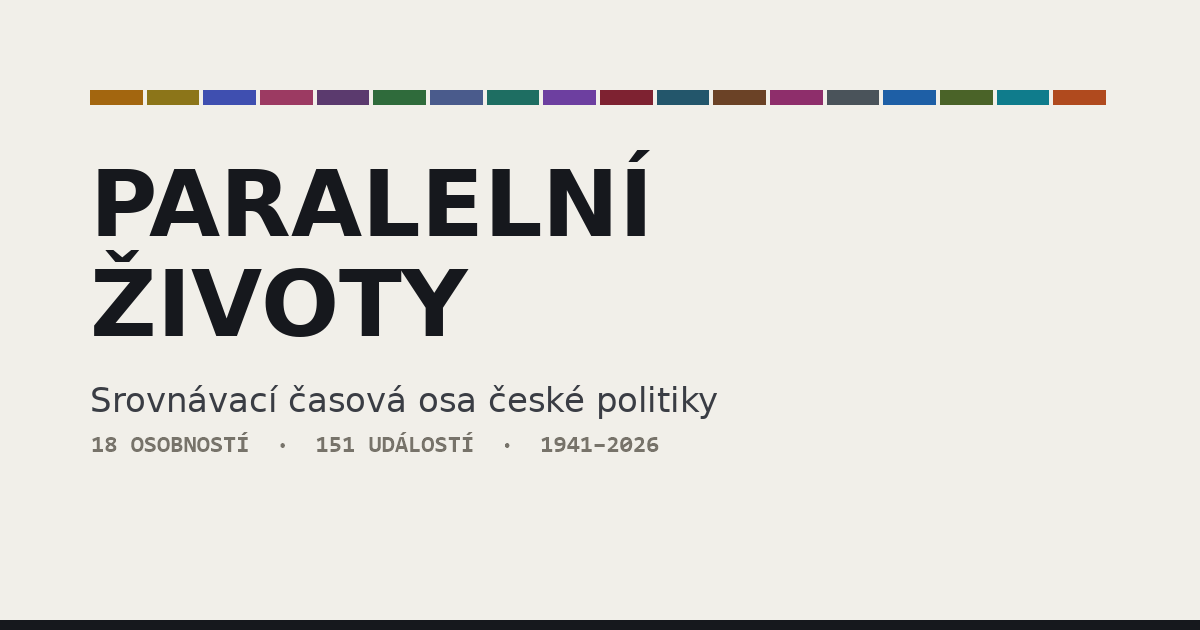
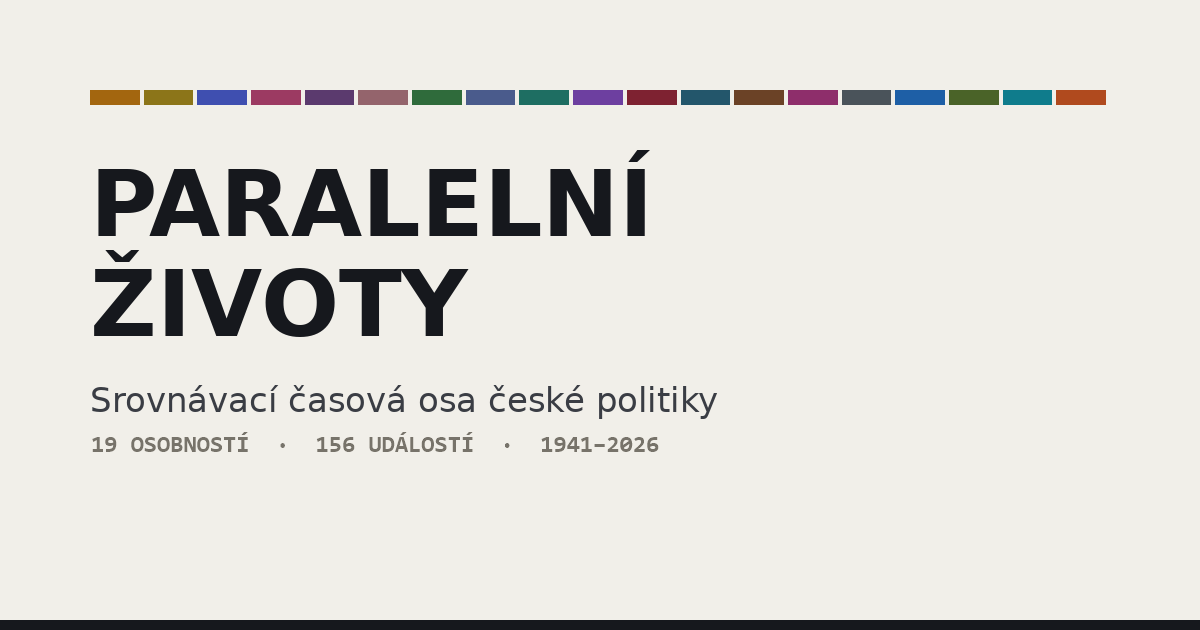
Add Karel Havlíček to the timeline, corrected by an external fact-check
Karel Havlíček joins as the 19th figure, placed alphabetically between
Fiala and Klaus: profile, the five comparison themes, five events with
articles, and a place in the cast of the December 2025 government event.
Counts, metadata, JSON-LD, README and og-image move to 19 figures and
156 events; his colour #94646C was chosen to stay within the palette's
range while being ΔE 26 from the nearest existing colour.

An external fact-check of the new articles was verified against primary
sources and applied. It adds his Bioinova supervisory-board seat
(2011–2016) and Syková's denial, drops an unsupported "final conviction"
in the Technistone case, corrects the ElCom years, his time chairing the
business association (2010–2019) and the habilitation date, fixes "the
whole pandemic", makes the Rosatom chronology precise, and describes
the ČEZ plan as the programme does (full control of production, bought
out by ČEZ itself) including the June 2026 shareholder vote. Balance is
added on his ministries (COVID–Nájemné, the D4 PPP contract). The shared
event card no longer claims the runoff rivals govern together "for the
first time". The revision log records the scoped check.

diff --git a/index.html b/index.html
@@ -4,9 +4,9 @@
 <meta charset="UTF-8">
 <meta name="viewport" content="width=device-width, initial-scale=1.0">
 <title>Paralelní životy — srovnávací časová osa české politiky</title>
-<meta name="description" content="Interaktivní srovnání životních drah osmnácti osobností české politiky. Vyberte jedno nebo více jmen, porovnejte jejich dráhy rok po roce a otevřete si ke každé ze 151 událostí podrobný článek s fakty i argumenty všech stran.">
+<meta name="description" content="Interaktivní srovnání životních drah devatenácti osobností české politiky. Vyberte jedno nebo více jmen, porovnejte jejich dráhy rok po roce a otevřete si ke každé ze 156 událostí podrobný článek s fakty i argumenty všech stran.">
 <meta name="robots" content="index, follow, max-image-preview:large, max-snippet:-1">
-<meta name="keywords" content="Andrej Babiš, Tünde Bartha, Ivan Bartoš, Eva Decroix, Petr Fiala, Václav Klaus, Oto Klempíř, Petr Macinka, Taťána Malá, Tomio Okamura, Petr Pavel, Jindřich Rajchl, Vít Rakušan, Karel Řehka, Alena Schillerová, Filip Turek, Natálie Vachatová, Miloš Zeman">
+<meta name="keywords" content="Andrej Babiš, Tünde Bartha, Ivan Bartoš, Eva Decroix, Petr Fiala, Karel Havlíček, Václav Klaus, Oto Klempíř, Petr Macinka, Taťána Malá, Tomio Okamura, Petr Pavel, Jindřich Rajchl, Vít Rakušan, Karel Řehka, Alena Schillerová, Filip Turek, Natálie Vachatová, Miloš Zeman">
 <link rel="canonical" href="https://jaktocist.cz/">
 <meta name="theme-color" content="#F1EFE9">
 <meta name="color-scheme" content="light">
@@ -16,7 +16,7 @@
 <meta property="og:locale" content="cs_CZ">
 <meta property="og:url" content="https://jaktocist.cz/">
 <meta property="og:title" content="Paralelní životy — srovnávací časová osa české politiky">
-<meta property="og:description" content="Interaktivní srovnání životních drah osmnácti osobností české politiky. Vyberte jedno nebo více jmen, porovnejte jejich dráhy rok po roce a otevřete si ke každé ze 151 událostí podrobný článek s fakty i argumenty všech stran.">
+<meta property="og:description" content="Interaktivní srovnání životních drah devatenácti osobností české politiky. Vyberte jedno nebo více jmen, porovnejte jejich dráhy rok po roce a otevřete si ke každé ze 156 událostí podrobný článek s fakty i argumenty všech stran.">
 <meta property="og:image" content="https://jaktocist.cz/og-image.png">
 <meta property="og:image:width" content="1200">
 <meta property="og:image:height" content="630">
@@ -24,7 +24,7 @@
 
 <meta name="twitter:card" content="summary_large_image">
 <meta name="twitter:title" content="Paralelní životy — srovnávací časová osa české politiky">
-<meta name="twitter:description" content="Interaktivní srovnání životních drah osmnácti osobností české politiky. Vyberte jedno nebo více jmen, porovnejte jejich dráhy rok po roce a otevřete si ke každé ze 151 událostí podrobný článek s fakty i argumenty všech stran.">
+<meta name="twitter:description" content="Interaktivní srovnání životních drah devatenácti osobností české politiky. Vyberte jedno nebo více jmen, porovnejte jejich dráhy rok po roce a otevřete si ke každé ze 156 událostí podrobný článek s fakty i argumenty všech stran.">
 <meta name="twitter:image" content="https://jaktocist.cz/og-image.png">
 
 <link rel="icon" href="favicon.svg" type="image/svg+xml">
@@ -39,7 +39,7 @@
    "@id": "https://jaktocist.cz/#website",
    "url": "https://jaktocist.cz/",
    "name": "Paralelní životy",
-   "description": "Interaktivní srovnání životních drah osmnácti osobností české politiky. Vyberte jedno nebo více jmen, porovnejte jejich dráhy rok po roce a otevřete si ke každé ze 151 událostí podrobný článek s fakty i argumenty všech stran.",
+   "description": "Interaktivní srovnání životních drah devatenácti osobností české politiky. Vyberte jedno nebo více jmen, porovnejte jejich dráhy rok po roce a otevřete si ke každé ze 156 událostí podrobný článek s fakty i argumenty všech stran.",
    "inLanguage": "cs-CZ"
   },
   {
@@ -50,7 +50,7 @@
    "isPartOf": {
     "@id": "https://jaktocist.cz/#website"
    },
-   "description": "Interaktivní srovnání životních drah osmnácti osobností české politiky. Vyberte jedno nebo více jmen, porovnejte jejich dráhy rok po roce a otevřete si ke každé ze 151 událostí podrobný článek s fakty i argumenty všech stran.",
+   "description": "Interaktivní srovnání životních drah devatenácti osobností české politiky. Vyberte jedno nebo více jmen, porovnejte jejich dráhy rok po roce a otevřete si ke každé ze 156 událostí podrobný článek s fakty i argumenty všech stran.",
    "inLanguage": "cs-CZ",
    "primaryImageOfPage": {
     "@id": "https://jaktocist.cz/#image"
@@ -75,6 +75,10 @@
     {
      "@type": "Person",
      "name": "Petr Fiala"
+    },
+    {
+     "@type": "Person",
+     "name": "Karel Havlíček"
     },
     {
      "@type": "Person",
@@ -205,6 +209,7 @@
     --vachatova:#0F7C8C;
     --rakusan:#8E2E6B;
     --bartos:#3F4FB0;
+    --havlicek:#94646C;
     --shared-grad:linear-gradient(90deg,var(--pavel),var(--babis));
     --maxw:1060px;
   }
@@ -672,6 +677,7 @@
   .tag.t-vachatova{color:var(--vachatova)}
   .tag.t-rakusan{color:var(--rakusan)}
   .tag.t-bartos{color:var(--bartos)}
+  .tag.t-havlicek{color:var(--havlicek)}
   .tag.t-shared{
     background:var(--shared-grad);
     -webkit-background-clip:text;background-clip:text;
@@ -788,7 +794,7 @@
 
 <section class="archive" id="archiv">
   <div class="wrap">
-    <h2>Textová verze — všech 151 článků</h2>
+    <h2>Textová verze — všech 156 článků</h2>
     <p class="arch-intro">Kompletní obsah osy v souvislém textu: rozbalte osobnost a přečtěte si její články bez klikání. Tato verze funguje i bez zapnutého JavaScriptu.</p>
     <details class="arch-person" style="--pc:#A3660F">
       <summary><i></i>Andrej Babiš <span class="cnt">15</span></summary>
@@ -1156,6 +1162,55 @@
   <p>Předání moci proběhlo korektně a bez průtahů – v prosinci 2025 Fiala předal úřad Babišovi, tedy muži, od něhož ho před čtyřmi lety převzal. Na kongresu ODS v lednu 2026 podpořil jako nástupce Martina Kupku, který byl zvolen; sám zůstal řadovým poslancem, chce se věnovat studentům a projektu přivádějícímu mladé lidi do politiky. Kandidaturu na prezidenta v roce 2028 vyloučil – Pavel podle něj úřad zvládá dobře.</p>
   <h5>Jak to číst</h5>
   <p>V české politice vzácný úkaz: lídr, který po porážce odešel sám, rychle a s poctami – expremiér Topolánek ho označil za prvního šéfa ODS, kterému se to povedlo. Otevřená zůstává otázka odkazu: zachránce demokratické pravice a premiér nejtěžších let, nebo lídr, který nedokázal mluvit s těmi, na něž krize dopadly nejtvrději? Nejspíš obojí zároveň.</p>
+</article>
+    </details>
+    <details class="arch-person" style="--pc:#94646C">
+      <summary><i></i>Karel Havlíček <span class="cnt">5</span></summary>
+      <p class="arch-meta">* 16. 8. 1969, České Budějovice · stavař → šéf skupiny Sindat a asociace podnikatelů → ministr → první místopředseda vlády</p>
+      <article class="artsrc" id="art-h-1969">
+  <span class="tag t-havlicek">Karel Havlíček · 1969–2001</span>
+  <h2>Stavař, ze kterého se stal obchodník</h2>
+  <p class="perex">Karel Havlíček se narodil 16. srpna 1969 v Českých Budějovicích. Vystudoval stavební fakultu pražského ČVUT, kterou dokončil v roce 1992 – v době, kdy se po revoluci otevíral prostor pro soukromé podnikání.</p>
+  <p>Vzdělání pak doplňoval souběžně s prací: v roce 1998 získal titul MBA na Prague International Business School ve spolupráci s britskou Manchester Metropolitan University.</p>
+  <p>Profesně začínal v obchodu s elektronikou. Podle vládního životopisu byl v letech 1990–2001 ředitelem firmy ElCom; v roce 2001 přešel jako obchodní ředitel do průmyslové skupiny Sindat. ElCom později, v březnu 2003, skončil v konkursu.</p>
+  <h5>Jak to číst</h5>
+  <p>Havlíček patří ke generaci, která dospěla s otevřením trhu po roce 1989 a kariéru nestavěla ve státních ani stranických strukturách, ale v soukromých firmách. Spojení technického vzdělání s manažerskými tituly předznamenalo, s jakým profilem později vstoupil do veřejného života – jako manažer a hlas podnikatelů, nikoli jako stranický funkcionář.</p>
+</article>
+      <article class="artsrc" id="art-h-2001">
+  <span class="tag t-havlicek">Karel Havlíček · 2001–2019</span>
+  <h2>Manažer, zástupce podnikatelů a docent</h2>
+  <p class="perex">Na přelomu tisíciletí se Havlíček stal jednou z tváří českého malého a středního podnikání. Vedl průmyslovou skupinu Sindat, jejímž byl i spolumajitelem, a v Asociaci malých a středních podniků a živnostníků zastupoval podnikatele vůči státu.</p>
+  <p>Do skupiny Sindat nastoupil v roce 2001 jako obchodní ředitel, v letech 2008–2019 byl podle vládního životopisu jejím generálním ředitelem a spolumajitelem. Asociaci malých a středních podniků a živnostníků pomáhal v roce 2001 zakládat; nejprve byl jejím místopředsedou, v letech 2010–2019 předsedou. Vzdělání doplnil doktorátem na VŠE (2004) a po obhajobě habilitační práce v prosinci 2013 byl od ledna 2014 jmenován docentem. Na Vysoké škole finanční a správní založil fakultu ekonomických studií a v letech 2012–2019 byl jejím děkanem; ve vládní Radě pro výzkum, vývoj a inovace zasedal od roku 2014, v letech 2018–2022 jako místopředseda.</p>
+  <p>Z této doby pocházejí i témata, která se ho později držela. Jeho firma Sinbio vlastnila čtvrtinový podíl ve společnosti Bioinova, spoluvlastněné Ústavem experimentální medicíny Akademie věd, a Havlíček byl v letech 2011–2016 místopředsedou její dozorčí rady. Česká televize v roce 2016 zveřejnila svědectví pacientů s ALS, kteří v souvislosti s experimentální léčbou kmenovými buňkami platili zhruba 150 tisíc korun spolku vedenému ředitelkou ústavu Evou Sykovou. Syková odmítla, že by kdokoli platil za účast v klinické studii, a v čele ústavu skončila. Z doložených zjištění neplyne, že by Havlíček platby požadoval nebo o nich rozhodoval. V letech 2007–2009 zasedal za Sindat v orgánech firmy Technistone, jejíž dva tehdejší manažeři čelili trestnímu řízení kvůli dotačnímu podvodu; Havlíček mezi obviněnými nebyl a pravomocný výsledek řízení se k září 2026 nepodařilo doložit. Seznam Zprávy v roce 2024 upozornily, že v letech 2011–2018 publikoval osm článků v řeckém časopise European Research Studies Journal, v jehož redakční radě zároveň zasedal a který databáze Scopus v roce 2018 vyřadila pro pochybnosti o publikačních standardech. Havlíček odmítl, že by šlo o predátorské časopisy, a uvedl, že za každým článkem stojí.</p>
+  <h5>Jak to číst</h5>
+  <p>Podnikatelská léta dokládají Havlíčkovu zkušenost s řízením firem, kterou si přinesl do vlády. Současně otevírají otázky odpovědnosti za projekty, v nichž působil jako vlastník nebo člen firemních orgánů. Rozsah této odpovědnosti je třeba posuzovat podle konkrétní role a doloženého jednání – samotná vazba na firmu účast na pochybení neprokazuje.</p>
+</article>
+      <article class="artsrc" id="art-h-2019">
+  <span class="tag t-havlicek">Karel Havlíček · 2019–2021</span>
+  <h2>Dva resorty bez stranické legitimace</h2>
+  <p class="perex">30. dubna 2019 jmenoval prezident Miloš Zeman Karla Havlíčka místopředsedou vlády a ministrem průmyslu a obchodu. Do vlády Andreje Babiše přišel jako nestraník, přímo z vedení podnikatelské asociace.</p>
+  <p>V lednu 2020 převzal i ministerstvo dopravy po odvolaném Vladimíru Kremlíkovi, jehož konec souvisel se zakázkou na elektronické dálniční známky. Oba resorty vedl do 17. prosince 2021, tedy během prvních dvou let covidové pandemie. Jeho ministerstvo průmyslu spravovalo část podpůrných programů pro podnikatele, například příspěvek na nájemné COVID–Nájemné; jako ministr dopravy podepsal v únoru 2021 koncesní smlouvu na dostavbu 32 kilometrů dálnice D4, pilotní projekt PPP v české dopravní infrastruktuře.</p>
+  <p>Jedním z výrazných sporů se stala dostavba jaderné elektrárny Dukovany. V březnu 2021 Havlíček oznámil záměr zahrnout do bezpečnostního posuzování uchazečů i ruský Rosatom, přestože vláda tento postup ještě neschválila a bezpečnostní instituce doporučovaly ruského dodavatele vyloučit. BIS uvedla, že se na přípravě tehdy prezentovaného dotazníku nepodílela. Havlíček tvrdil, že dotazník měl prověřit všechny uchazeče a že je třeba vyvážit energetickou soběstačnost, cenu i bezpečnost. Po zveřejnění zjištění o Vrběticích vláda 19. dubna 2021 rozhodla, že Rosatom osloven nebude; rozhodnutí oznámil Havlíček a zároveň varoval, že vyloučení podle něj může dostavbu prodražit.</p>
+  <h5>Jak to číst</h5>
+  <p>Spor o Rosatom patří k nejviditelnějším momentům Havlíčkova prvního působení ve vládě. Zastánci v něm vidí ministra, který se snažil udržet soutěž co nejširší kvůli ceně; kritici ministra, který podcenil varování zpravodajských služeb. Zveřejnění zjištění o Vrběticích vedlo k politickému rozhodnutí Rosatom vyloučit – zpětné hodnocení jeho postupu ale musí oddělovat bezpečnostní rizika od jeho argumentace cenou.</p>
+</article>
+      <article class="artsrc" id="art-h-2021">
+  <span class="tag t-havlicek">Karel Havlíček · 2021–2025</span>
+  <h2>Druhý muž ANO a šéf stínové vlády</h2>
+  <p class="perex">Ve volbách 2021 vedl Havlíček kandidátku ANO ve Středočeském kraji, přestože členem hnutí nebyl. Byl zvolen poslancem a do ANO vstoupil po volbách v říjnu 2021; hnutí následně přešlo do opozice.</p>
+  <p>Na sněmu v únoru 2022 ho delegáti zvolili prvním místopředsedou hnutí, když získal 82 z 93 hlasů. Téhož měsíce se stal místopředsedou Poslanecké sněmovny a funkci zastával do konce volebního období v říjnu 2025. V únoru 2023 převzal od Andreje Babiše vedení stínové vlády ANO.</p>
+  <p>Stínová vláda pod jeho vedením koordinovala kritiku Fialova kabinetu; Novinky popsaly, že Havlíček vedl tabulku aktivit jejích členů. Sám se věnoval hlavně hospodářským tématům – odmítal zvyšování daní a kritizoval rozpočtovou politiku vlády.</p>
+  <h5>Jak to číst</h5>
+  <p>Vstup do ANO až po volbách, a navíc do opozice, lze číst jako projev loajality v době, kdy hnutí o moc přišlo. Zároveň ukazuje, jak hnutí postavené kolem zakladatele obsazuje klíčové pozice lidmi bez dlouhé stranické historie. Havlíčkovu roli lze vykládat jako tvář hospodářské odbornosti hnutí, nebo jako vykonavatele strategie jeho předsedy; obojí je interpretace, kterou fakta připouštějí, ale nerozhodují.</p>
+</article>
+      <article class="artsrc" id="art-h-2025">
+  <span class="tag t-havlicek">Karel Havlíček · 2025–2026</span>
+  <h2>První místopředseda vlády</h2>
+  <p class="perex">Do voleb v říjnu 2025 vedl Havlíček kandidátku ANO v Praze a byl znovu zvolen poslancem. Hnutí volby vyhrálo a 15. prosince 2025 se stal prvním místopředsedou vlády Andreje Babiše a opět ministrem průmyslu a obchodu.</p>
+  <p>Během kampaně odmítal i jen úvahy o zvyšování daní a v novém kabinetu dostal na starost průmysl, obchod i energetiku.</p>
+  <p>Nejvýraznějším projektem prvních měsíců je stoprocentní státní kontrola nad výrobou ve skupině ČEZ, kterou má vláda v programovém prohlášení. Stát drží zhruba 70 procent akcií společnosti; výkup ostatních akcionářů má podle programu proběhnout vlastním výkupem ČEZ, nikoli z výdajů státního rozpočtu. Havlíček v lednu 2026 odhadl, že proces potrvá zhruba jeden a půl až dva roky, a odmítl potvrdit dříve zmiňovanou částku kolem 250 miliard korun. V červnu 2026 valná hromada ČEZ schválila vyčlenění zákaznického segmentu – prodeje, distribuce a obchodu – do dceřiné firmy, v níž si ČEZ ponechá nejméně 51 procent a zbytek může nabídnout investorům; výnos může posloužit k výkupu minoritních akcionářů. Samotný výkup tím ještě proveden není.</p>
+  <h5>Jak to číst</h5>
+  <p>Plná státní kontrola nad výrobou ČEZ je projekt, na kterém se ukáže, zda Havlíčkův manažerský obraz obstojí v praxi. Zastánci argumentují, že stát má mít nad strategickou energetikou plnou kontrolu; kritici upozorňují na cenu výkupu i na to, že minoritní akcionáři už se státem vedou spor – jejich žaloba se ale týká daně z neočekávaných zisků, nikoli samotného výkupu. Výsledek zatím neexistuje; rozhodne až provedení.</p>
 </article>
     </details>
     <details class="arch-person" style="--pc:#2F6B3B">
@@ -2193,7 +2248,7 @@
 <span class="tag t-shared">Průsečík · Prosinec 2025 – leden 2026</span>
   <h2>Prezident jmenuje svého soupeře</h2>
   <p class="perex">9. prosince 2025 podává Petr Pavel ruku Andreji Babišovi a jmenuje ho předsedou vlády. Muž, kterého před třemi lety porazil v boji o Hrad, se stává jeho ústavním partnerem. Česko vstupuje do kohabitace, jakou nezažilo.</p>
-  <p>Pavel se ocitl v roli, kterou ústava popisuje stroze: prezident jmenuje předsedu vlády. Vítěz voleb byl nezpochybnitelný, a tak Hrad vedl jednání o podmínkách – veřejné vysvětlení řešení střetu zájmů před jmenováním. Babiš je 4. prosince oznámil, Pavel podmínku prohlásil za splněnou a 15. prosince jmenoval patnáctičlennou vládu ANO, SPD a Motoristů. Vláda spojila ANO s SPD Tomia Okamury, jehož Sněmovna zvolila svým předsedou, a s Motoristy Petra Macinky, který převzal diplomacii; resort kultury připadl Oto Klempířovi, ministerstvo financí a post vicepremiérky znovu Aleně Schillerové a Úřad vlády opět Tünde Barthě. Sněmovna kabinetu vyslovila důvěru 15. ledna 2026. Trestní stíhání premiéra prezident za ústavní překážku neoznačil – s odkazem na presumpci neviny.</p>
+  <p>Pavel se ocitl v roli, kterou ústava popisuje stroze: prezident jmenuje předsedu vlády. Vítěz voleb byl nezpochybnitelný, a tak Hrad vedl jednání o podmínkách – veřejné vysvětlení řešení střetu zájmů před jmenováním. Babiš je 4. prosince oznámil, Pavel podmínku prohlásil za splněnou a 15. prosince jmenoval patnáctičlennou vládu ANO, SPD a Motoristů. Vláda spojila ANO s SPD Tomia Okamury, jehož Sněmovna zvolila svým předsedou, a s Motoristy Petra Macinky, který převzal diplomacii; resort kultury připadl Oto Klempířovi, ministerstvo průmyslu a obchodu s postem prvního místopředsedy vlády Karlu Havlíčkovi, ministerstvo financí a post vicepremiérky znovu Aleně Schillerové a Úřad vlády opět Tünde Barthě. Sněmovna kabinetu vyslovila důvěru 15. ledna 2026. Trestní stíhání premiéra prezident za ústavní překážku neoznačil – s odkazem na presumpci neviny.</p>
   <p>První konflikt na sebe nenechal čekat: Pavel odmítl jmenovat ministrem kontroverzního Filipa Turka z Motoristů a spor o hranice prezidentských pravomocí skončil kompromisem – resort životního prostředí nakonec v únoru převzal Igor Červený. Babiš při projevu ve Sněmovně mluvil o „antibabišismu“ a čtrnáctiletém boji „kartelu“ proti své osobě; zároveň ale s Hradem uzavřel pragmatický modus vivendi.</p>
   <h5>Jak to číst</h5>
   <p>Prosinec 2025 je zatěžkávací zkouškou ústavy: systém přinutil dva soupeře z prezidentského finále ke každodenní spolupráci. Zastánci Pavlova postupu oceňují, že respektoval výsledek voleb a vytěžil maximum z omezených pravomocí; kritici zleva mu vyčítají, že Babišovo řešení střetu zájmů posvětil dřív, než bylo provedeno. Kohabitace každopádně teprve začíná – a oba soupeři z roku 2023 vědí, že se v roce 2028 mohou potkat znovu.</p>
@@ -2270,6 +2325,8 @@
         <section class="ab-box ab-wide">
           <h4>Opravy a revize</h4>
           <ol class="ab-log">
+            <li><time datetime="2026-09-15">15. 9. 2026</time><span>Nezávislý fact-check nově přidaných článků o Karlu Havlíčkovi – ostatní obsah osy neprověřoval. Podle něj doplněna jeho dozorčí funkce v Bioinově i stanovisko E. Sykové, vypuštěn nedoložený pravomocný výsledek kauzy Technistone, upřesněno vedení asociace podnikatelů, habilitace, rozsah plánu na kontrolu výroby ČEZ a opraveno tvrzení o celé době pandemie; upřesněna karta o jmenování vlády v prosinci 2025.</span></li>
+            <li><time datetime="2026-09-15">15. 9. 2026</time><span>Osa rozšířena o Karla Havlíčka (19 osobností, 156 článků).</span></li>
             <li><time datetime="2026-09-15">15. 9. 2026</time><span>Upřesněn nadpis článku o Vítu Rakušanovi a volbách 2021: koalice PirSTAN volby nevyhrála, byla součástí vítězné většiny.</span></li>
             <li><time datetime="2026-09-15">15. 9. 2026</time><span>Nezávislý fact-check nově přidaných článků o Ivanu Bartošovi – ostatní obsah osy neprověřoval. Podle něj doplněno nezákonné zadání části digitalizace stavebního řízení podle ÚOHS a soudů, opraveno datum schválení zákona o právu na digitální služby (listopad 2019) a změněn nadpis článku o volbách 2021.</span></li>
             <li><time datetime="2026-09-15">15. 9. 2026</time><span>Osa rozšířena o Ivana Bartoše (18 osobností, 151 článků) včetně nového průsečíku k rozpadu pětikoalice v září 2024; v článku o Vítu Rakušanovi opraven výsledek koalice PirSTAN na 15,62 %.</span></li>
@@ -2322,6 +2379,12 @@
       born:"* 1. 9. 1964, Brno",
       arc:"politolog → rektor → předseda ODS → premiér",
       sum:"Kariéra akademika: z univerzitních poslucháren přes záchranu ODS až do čela vlády v éře krizí; po porážce v roce 2025 předal úřad i stranu a zůstal řadovým poslancem."
+    },
+    havlicek:{
+      name:"Karel Havlíček",surname:"Havlíček",color:"#94646C",
+      born:"* 16. 8. 1969, České Budějovice",
+      arc:"stavař → šéf skupiny Sindat a asociace podnikatelů → ministr → první místopředseda vlády",
+      sum:"Kariéra manažera: skoro dvě dekády v průmyslové skupině Sindat a ve vedení Asociace malých a středních podniků a živnostníků, jejímž předsedou byl v letech 2010–2019. Do vlády vstoupil jako nestraník; dnes je prvním místopředsedou ANO i vlády a prosazuje stoprocentní státní kontrolu výroby ve skupině ČEZ."
     },
     rakusan:{
       name:"Vít Rakušan",surname:"Rakušan",color:"#8E2E6B",
@@ -2440,6 +2503,11 @@
            domov:"ODS – předsedou 2014–2026.",
            vrchol:"Předseda vlády (2021–2025).",
            kauzy:"Drahota a inflace, bitcoinová kauza resortu spravedlnosti, rozpad koalice s Piráty."},
+    havlicek:{rezim:"Narozen 1969; stavební fakultu ČVUT dokončil v roce 1992 a podnikat začal až po revoluci.",
+           cesta:"Manažerská a podnikatelská dráha – z vedení průmyslové skupiny a podnikatelské asociace přímo do vlády; do strany vstoupil až jako zvolený poslanec.",
+           domov:"ANO – členem od října 2021, od února 2022 prvním místopředsedou hnutí.",
+           vrchol:"První místopředseda vlády a ministr průmyslu a obchodu (od 2025); v letech 2019–2021 místopředseda vlády, ministr průmyslu a obchodu a od roku 2020 i dopravy.",
+           kauzy:"Postup vůči Rosatomu v tendru na Dukovany, který kritizovaly bezpečnostní složky (2021); podíl a místo v dozorčí radě firmy Bioinova v době kauzy kmenových buněk; publikace v časopise vyřazeném z databáze Scopus; plán na stoprocentní státní kontrolu výroby ve skupině ČEZ."},
     rakusan:{rezim:"Narozen 1978; režim zažil jen jako dítě.",
            cesta:"Od obecní politiky nahoru: devět let starostou Kolína, poté předsedou hnutí vyrostlého z komunální úrovně.",
            domov:"STAN – předsedou od roku 2019, opakovaně potvrzen přes devadesát procent hlasů.",
@@ -2502,7 +2570,7 @@
            kauzy:"Bez vlastních kauz; kritizována je koncentrace neformálního vlivu nevolené osoby."}
   };
   /* abecedně podle příjmení (česká abeceda: Č, Ř, Š, Ž a Ch jsou samostatná písmena) – viz README, Řazení jmen */
-  var ORDER=["babis","bartha","bartos","decroix","fiala","klaus","klempir","macinka","mala","okamura","pavel","rajchl","rakusan","rehka","schillerova","turek","vachatova","zeman"];
+  var ORDER=["babis","bartha","bartos","decroix","fiala","havlicek","klaus","klempir","macinka","mala","okamura","pavel","rajchl","rakusan","rehka","schillerova","turek","vachatova","zeman"];
   var zoom='detail';
   var sel=["pavel","babis"];
 
@@ -2551,7 +2619,7 @@
     {id:"s-2018",w:["zeman","babis"],y:2018.15,yl:"2017–18",t:"Prezident a stíhaný premiér",s:"Miloš Zeman jmenoval Andreje Babiše premiérem i po jeho obvinění a prohlásil, že trestní stíhání není ústavní překážkou – precedens, který o osm let později využije i jeho nástupce."},
     {id:"s-2021",w:["zeman","fiala","babis"],y:2021.9,yl:"Listopad 2021",t:"Plexisklo v Lánech",s:"Po nejtěsnějších volbách moderní éry skončil prezident na jednotce intenzivní péče. Petra Fialu jmenoval premiérem 28. listopadu 2021 přes bezpečnostní box – snímek obletěl svět."},
     {id:"s-202510",w:["babis","fiala","okamura","macinka","turek","klempir","decroix","rajchl","rakusan","bartos"],y:2025.75,yl:"Říjen 2025",t:"Volby, které otočily zemi",s:"ANO vyhrálo s 34,5 %, SPOLU získalo 23,4 % a Fiala uznal porážku ještě volební noc. Do Sněmovny se poprvé dostali Motoristé; předsedou Sněmovny se stal Tomio Okamura."},
-    {id:"s-202512",w:["pavel","babis","okamura","turek","macinka","klempir","bartha","schillerova"],y:2025.8,yl:"Prosinec 2025",t:"Role se protínají",s:"Prezident Pavel 9. prosince jmenuje Babiše potřetí premiérem a 15. prosince jeho vládu ANO, SPD a Motoristů. Sněmovna jí vyslovuje důvěru 15. ledna 2026 – poprvé spolu vládnou dva soupeři z prezidentského finále."},
+    {id:"s-202512",w:["pavel","babis","okamura","turek","macinka","klempir","bartha","schillerova","havlicek"],y:2025.8,yl:"Prosinec 2025 – leden 2026",t:"Role se protínají",s:"Prezident Pavel 9. prosince jmenuje Babiše potřetí premiérem a 15. prosince jeho vládu ANO, SPD a Motoristů. Sněmovna jí vyslovuje důvěru 15. ledna 2026. Soupeři z prezidentského finále 2023 tak zastávají funkce prezidenta a premiéra."},
     {id:"j-1976",w:"rajchl",y:1976.7,yl:"1976",t:"Narození v Hradci Králové",s:"Vystuduje práva na Univerzitě Karlově a otevře si vlastní advokátní kancelář. Od mládí ho vedle práva provází fotbal – nejprve jako hráče, později jako funkcionáře."},
     {id:"j-2001",w:"rajchl",y:2001.5,yl:"2001–05",t:"Advokátem fotbalového bosse",s:"Začíná zastupovat zatčeného šéfa fotbalového svazu Františka Chvalovského a přes něj vstupuje do vedení prvoligových Blšan. Ve fotbale získá přezdívku ďáblův advokát."},
     {id:"j-2011",w:"rajchl",y:2011.6,yl:"2006–15",t:"Místopředsedou fotbalové asociace",s:"Dostane se do vedení FAČR, Dukly Praha i marketingové komise UEFA. V roce 2011 neúspěšně kandiduje na předsedu svazu s podporou Romana Berbra."},
@@ -2585,6 +2653,11 @@
     {id:"f-2021",w:"fiala",y:2021.6,yl:"2021",t:"SPOLU poráží ANO",s:"Koalice SPOLU pod jeho vedením těsně vyhrává volby (27,8 %) a Fiala je jmenován premiérem – kvůli Zemanovu covidu za plexisklem v Lánech."},
     {id:"f-2022",w:"fiala",y:2022.5,yl:"2022–24",t:"Vláda permanentní krize",s:"Ruská invaze, statisíce uprchlíků, energetická krize, rekordní inflace i předsednictví EU. Vláda zastropuje ceny energií a konsoliduje rozpočty – a platí za to popularitou. Od roku 2024 ji provází i kauza kampeličky, v níž měl Fiala nepřiznaný podíl."},
     {id:"f-2025",w:"fiala",y:2025.4,yl:"2025–26",t:"Porážka a předání",s:"SPOLU získává 23,4 % a volby jasně prohrává. Fiala předává vládu Babišovi, po 12 letech končí v čele ODS a zůstává řadovým poslancem; nástupcem je zvolen Martin Kupka."},
+    {id:"h-1969",w:"havlicek",y:1969.62,yl:"1969–2001",t:"Narození v Českých Budějovicích",s:"Vystuduje stavební fakultu ČVUT a po revoluci se v obchodu s elektronikou stane ředitelem firmy ElCom. Při práci si doplní titul MBA."},
+    {id:"h-2001",w:"havlicek",y:2004.5,yl:"2001–19",t:"Sindat a hlas podnikatelů",s:"Z obchodního ředitele průmyslové skupiny Sindat se stane jejím generálním ředitelem a spolumajitelem. Spoluzakládá Asociaci malých a středních podniků, v letech 2010–2019 ji vede, a v Bioinově zasedá v dozorčí radě."},
+    {id:"h-2019",w:"havlicek",y:2019.33,yl:"2019–21",t:"Nestraník v Babišově vládě",s:"Jako nestraník se stane místopředsedou vlády a ministrem průmyslu a obchodu, od ledna 2020 vede i dopravu. Po zveřejnění zjištění o Vrběticích vláda vyloučí ruský Rosatom z tendru na Dukovany."},
+    {id:"h-2021",w:"havlicek",y:2022.1,yl:"2021–25",t:"Místopředseda ANO a šéf stínové vlády",s:"Jako nestraník vede kandidátku ANO ve středních Čechách, po volbách do hnutí vstoupí a stane se jeho prvním místopředsedou. Je místopředsedou Sněmovny a od roku 2023 šéfem stínové vlády."},
+    {id:"h-2025",w:"havlicek",y:2025.9,yl:"2025–26",t:"První místopředseda vlády",s:"Vede kandidátku ANO v Praze a v prosinci 2025 se stává prvním místopředsedou Babišovy vlády a opět ministrem průmyslu a obchodu. Prosazuje stoprocentní státní kontrolu výroby ve skupině ČEZ; v červnu 2026 schválí valná hromada ČEZ první krok."},
     {id:"i-1978",w:"rakusan",y:1978.45,yl:"1978",t:"Narození v Kolíně",s:"Syn senátora za ČSSD vystuduje historii a germanistiku a dvacet let učí dějepis, němčinu a politologii na gymnáziu v Kutné Hoře."},
     {id:"i-2010",w:"rakusan",y:2010.85,yl:"2010–19",t:"Starostou Kolína",s:"Jako nestraník za Změnu pro Kolín vede město devět let a mandát dvakrát obhájí; v roce 2018 získá jeho uskupení přes 62 procent hlasů."},
     {id:"i-2015",w:"rakusan",y:2015.5,yl:"2015–19",t:"Cesta do čela STAN",s:"Vstupuje do hnutí Starostů, v roce 2016 je prvním místopředsedou, o rok později poslancem a v dubnu 2019 předsedou s 93,9 procenta hlasů."},
@@ -3078,7 +3151,7 @@
   var box=document.getElementById('articleBox');
   var content=document.getElementById('articleContent');
   var closeBtn=document.getElementById('closeBtn');
-  var PREFIX={p:'pavel',b:'babis',t:'turek',f:'fiala',o:'okamura',m:'macinka',d:'decroix',k:'klempir',u:'bartha',z:'zeman',r:'rehka',j:'rajchl',a:'schillerova',v:'klaus',l:'mala',n:'vachatova',i:'rakusan',e:'bartos'};
+  var PREFIX={p:'pavel',b:'babis',t:'turek',f:'fiala',o:'okamura',m:'macinka',d:'decroix',k:'klempir',u:'bartha',z:'zeman',r:'rehka',j:'rajchl',a:'schillerova',v:'klaus',l:'mala',n:'vachatova',i:'rakusan',e:'bartos',h:'havlicek'};
 
   function openArticle(id){
     var src=document.getElementById('art-'+id);

diff --git a/README.md b/README.md
@@ -1,6 +1,6 @@
 # Paralelní životy
 
-Interaktivní srovnávací časová osa životních drah osmnácti osobností české politiky.
+Interaktivní srovnávací časová osa životních drah devatenácti osobností české politiky.
 Statická stránka bez závislostí a bez build kroku — jeden soubor `index.html`.
 
 **Živá verze:** https://jaktocist.cz
@@ -12,7 +12,7 @@ Statická stránka bez závislostí a bez build kroku — jeden soubor `index.ht
 - paralelní sloupce zůstávají zachovány při libovolném počtu osob; sloupec nikdy
   neklesne pod čitelnou šířku a při velkém počtu se osa posouvá vodorovně
 - centrální chronologická osa s ročníky, po stranách dráhy vybraných osob
-- ke každé ze 151 událostí rozklikávací článek (celkem 151 článků)
+- ke každé ze 156 událostí rozklikávací článek (celkem 156 článků)
 - průsečíky — události s pevným obsazením, kde se dráhy protínají
 - srovnávací matice profilů v pěti tématech
 - přepínač Detail / Přehled
